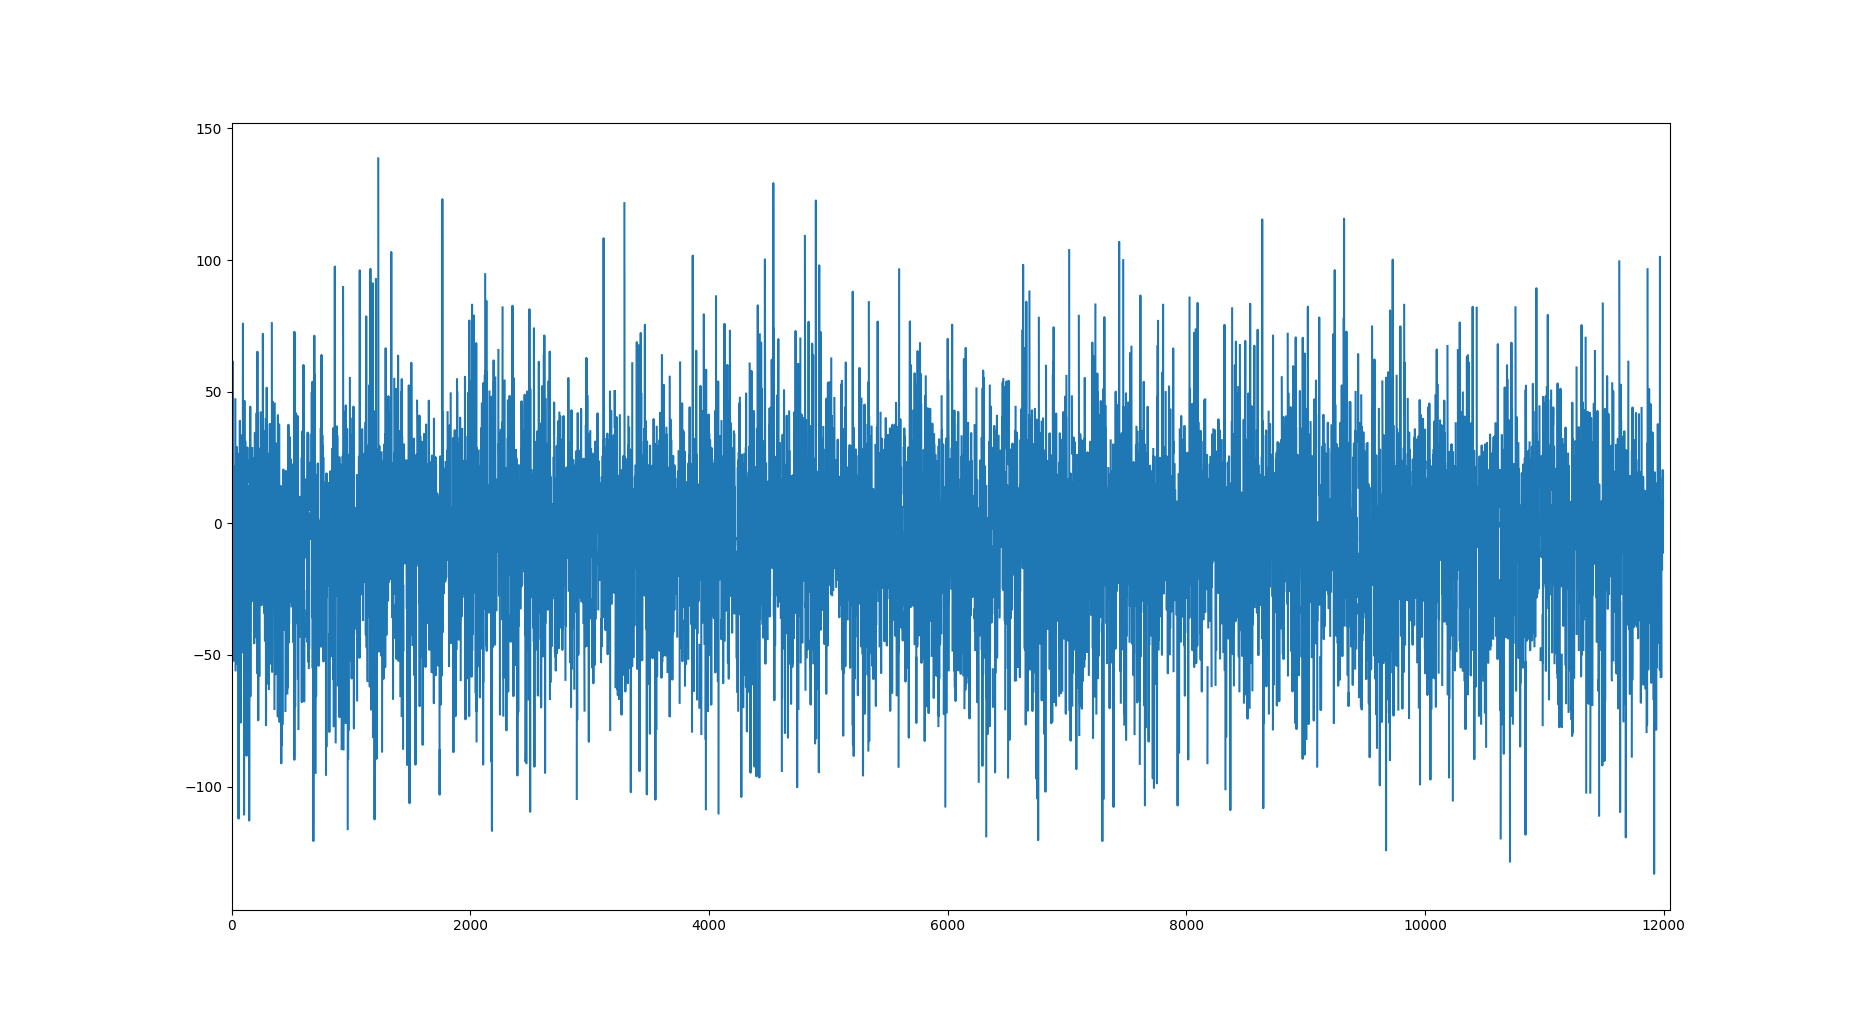
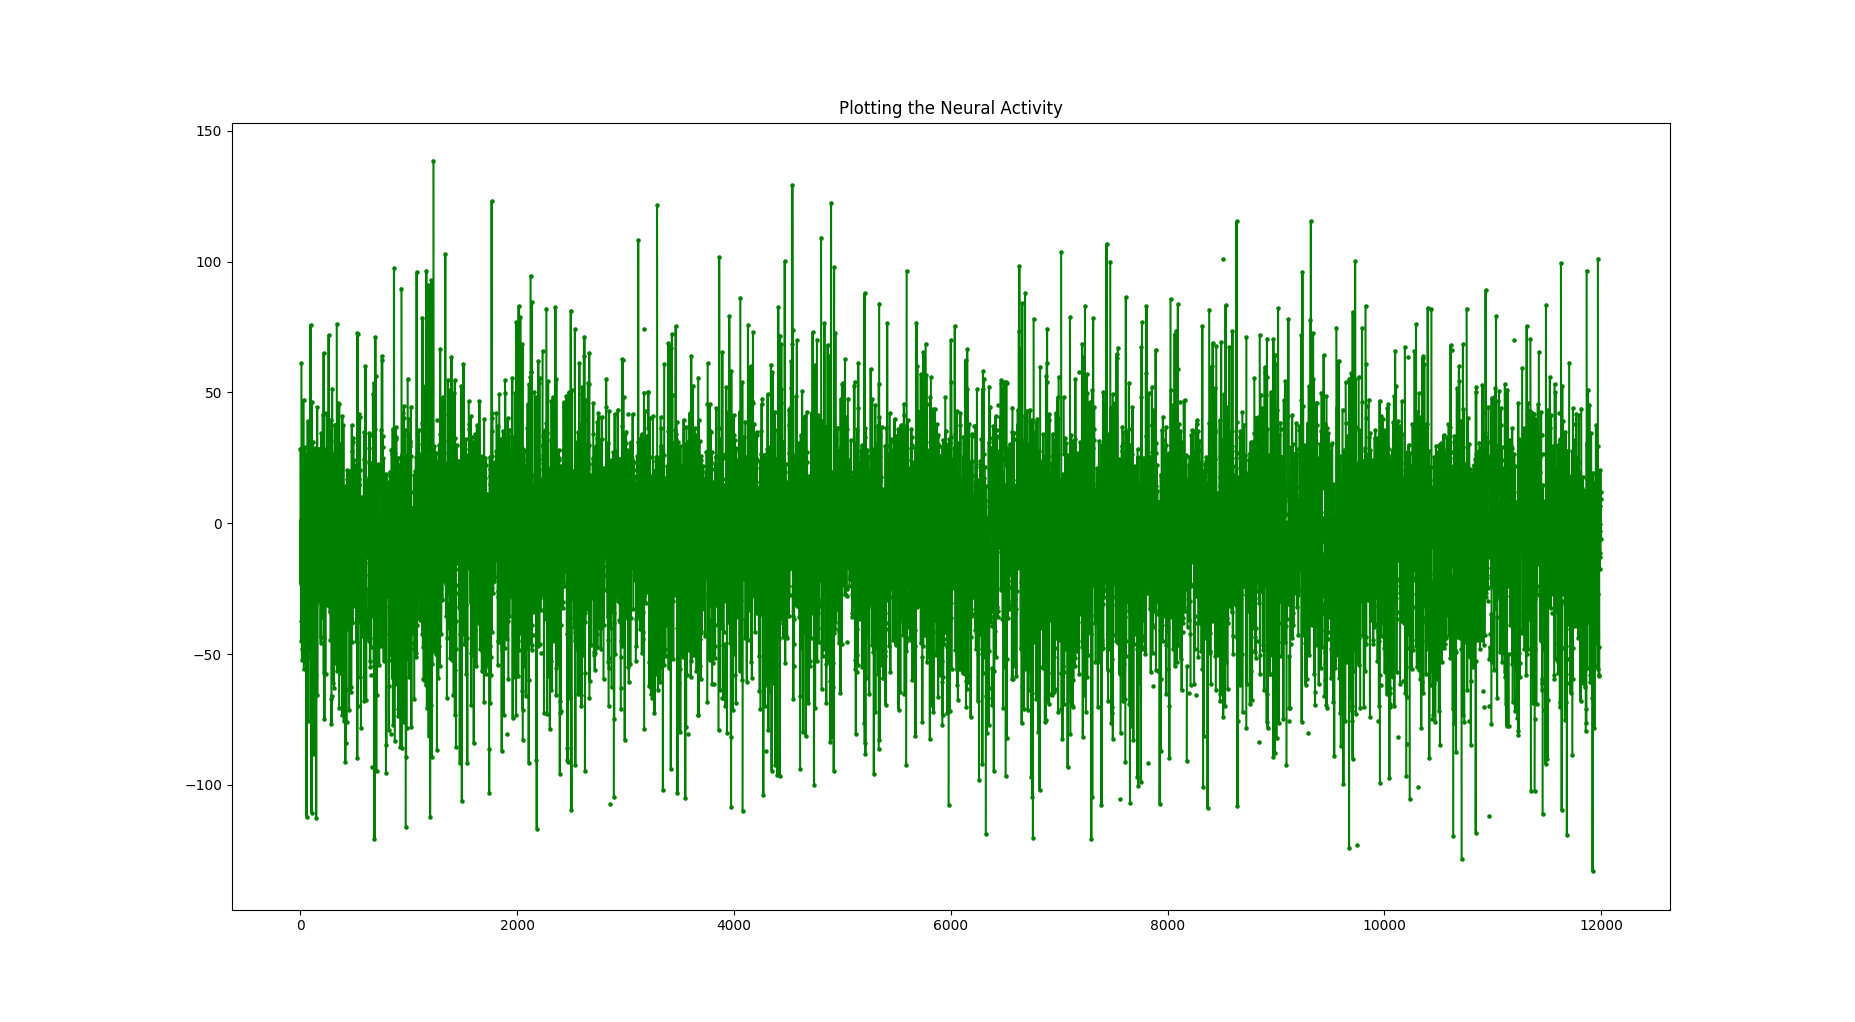
added the main things into the program, added the figure as a png, and i think i'm done

diff --git a/spike_trains/thirdQ.py b/spike_trains/thirdQ.py
@@ -40,8 +40,11 @@ def plotActivity(spikes,stimulus):
             thisAvgList = [];
 
 
-    plt.plot(range(0,len(avgs_list)), avgs_list);
-    plt.xlim(0,len(avgs_list) + 50);
+    plt.plot(range(0,len(avgs_list)), avgs_list, '-', color = "green");
+    plt.scatter(range(0,len(avgs_list)), avgs_list, s= 5, color = "green");
+    plt.title("Plotting the Neural Activity");
+
+    plt.legend();
     plt.show();
 
 
